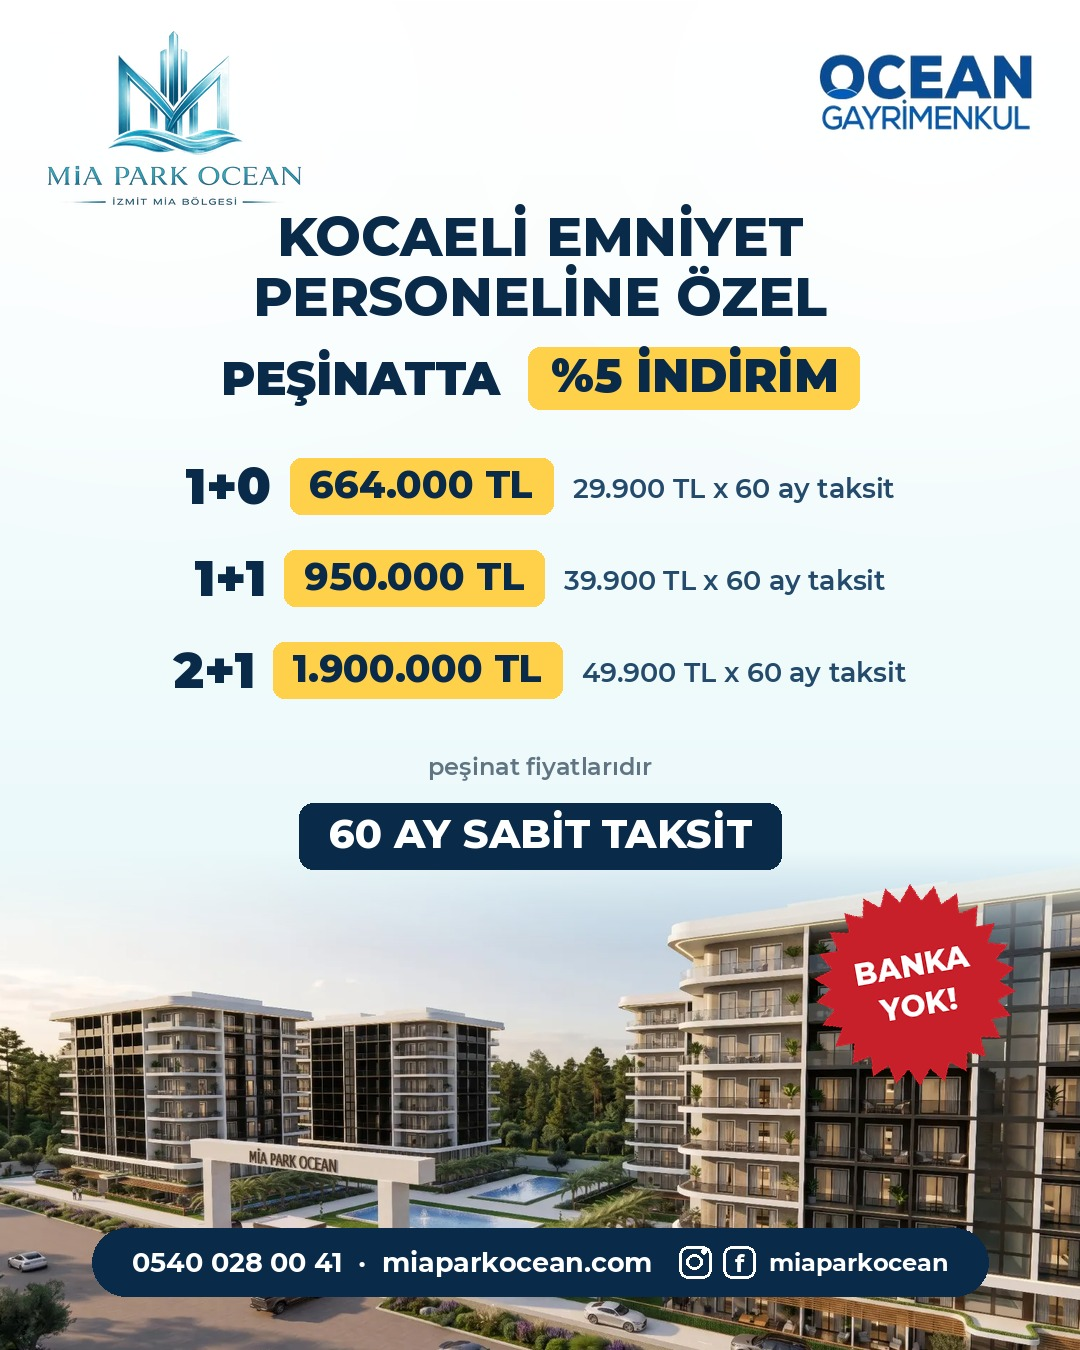
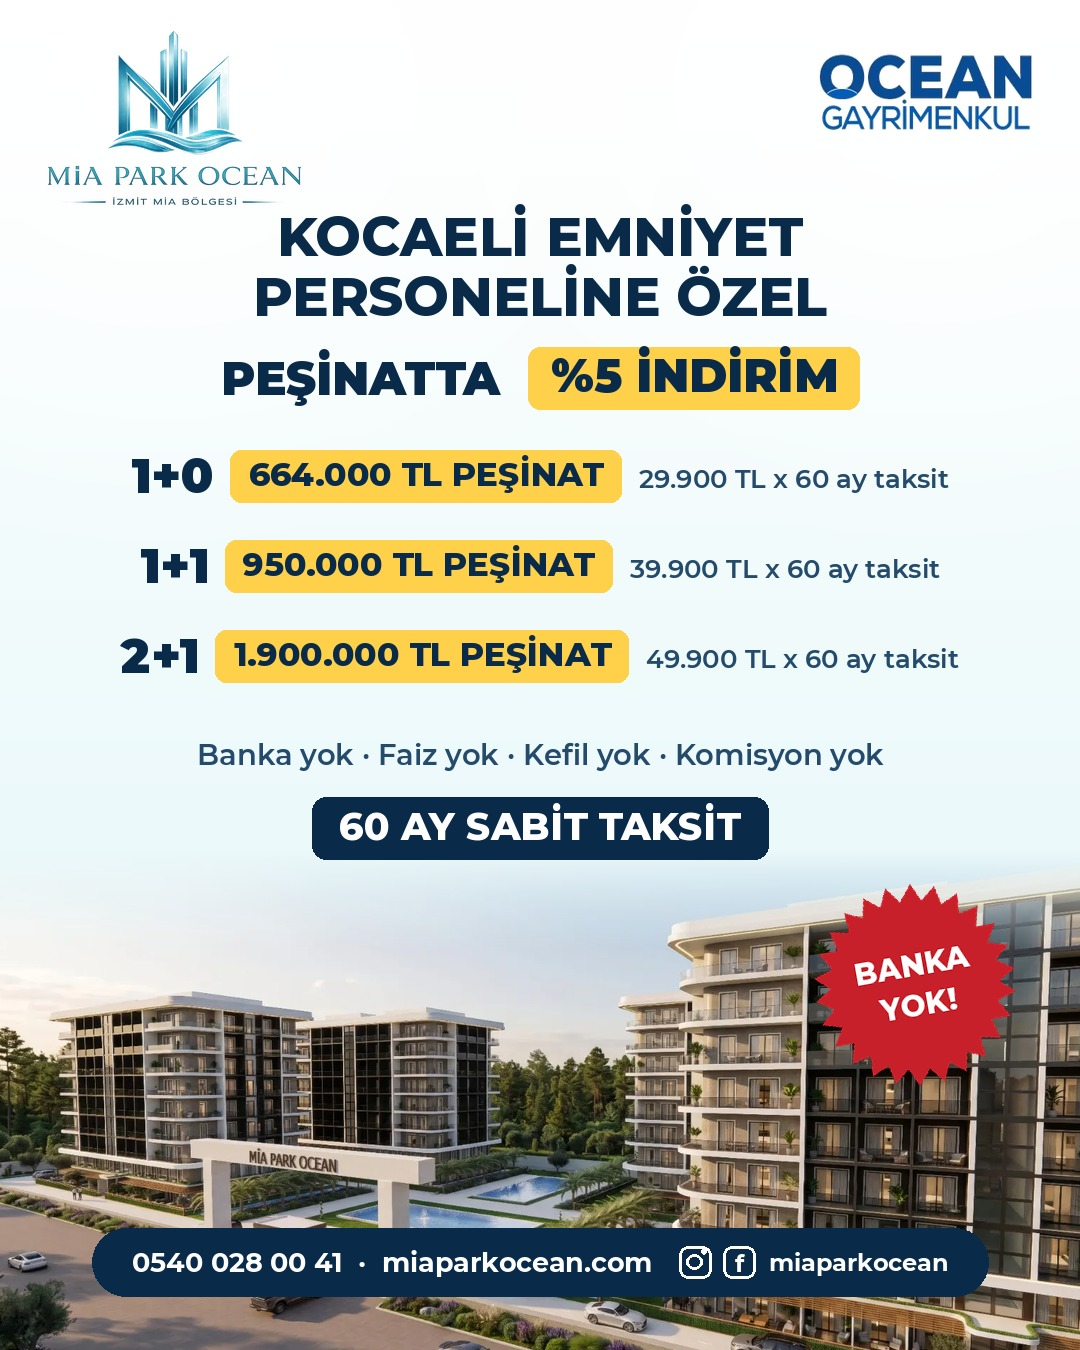
Emniyet kartı: sarı çiplerde PEŞİNAT ibaresi + kefil/komisyon yok satırı
Claude-Session: https://claude.ai/code/session_014vbWeo5uAXPs6zFw9SmWv2

Changed region(s): [[0.0917, 0.3111, 0.8861, 0.6533], [0.7639, 0.56, 0.7944, 0.5911]]

diff --git a/scripts/build-emniyet-post.py b/scripts/build-emniyet-post.py
@@ -75,29 +75,29 @@ def main():
     st.cip(dr, x + tw1 + 14 + tw2 / 2, 378, "%5 İNDİRİM", fb,
            dolgu=SARI, yazi=NAVY, pad_x=22, pad_y=8, r=12)
 
-    satirlar = [("1+0", "664.000 TL", "29.900 TL x 60 ay taksit"),
-                ("1+1", "950.000 TL", "39.900 TL x 60 ay taksit"),
-                ("2+1", "1.900.000 TL", "49.900 TL x 60 ay taksit")]
-    ft = mont("Black", 50)
-    fc = mont("ExtraBold", 38)
-    fk = mont("SemiBold", 27)
-    y = 486
+    satirlar = [("1+0", "664.000 TL PEŞİNAT", "29.900 TL x 60 ay taksit"),
+                ("1+1", "950.000 TL PEŞİNAT", "39.900 TL x 60 ay taksit"),
+                ("2+1", "1.900.000 TL PEŞİNAT", "49.900 TL x 60 ay taksit")]
+    ft = mont("Black", 48)
+    fc = mont("ExtraBold", 33)
+    fk = mont("SemiBold", 26)
+    y = 476
     for tip, pesin, taksit in satirlar:
         wt = dr.textlength(tip, font=ft)
-        wc = dr.textlength(pesin, font=fc) + 2 * 20
+        wc = dr.textlength(pesin, font=fc) + 2 * 18
         wk = dr.textlength(taksit, font=fk)
-        x = (W - wt - 18 - wc - 20 - wk) / 2
+        x = (W - wt - 16 - wc - 18 - wk) / 2
         dr.text((x, y), tip, font=ft, fill=NAVY, anchor="lm")
-        st.cip(dr, x + wt + 18 + wc / 2, y, pesin, fc, dolgu=SARI,
-               yazi=NAVY, pad_x=20, pad_y=9, r=11)
-        dr.text((x + wt + 18 + wc + 20, y + 2), taksit, font=fk,
+        st.cip(dr, x + wt + 16 + wc / 2, y, pesin, fc, dolgu=SARI,
+               yazi=NAVY, pad_x=18, pad_y=10, r=11)
+        dr.text((x + wt + 16 + wc + 18, y + 2), taksit, font=fk,
                 fill=(36, 74, 108), anchor="lm")
-        y += 92
-    dr.text((W / 2, y + 4), "peşinat fiyatlarıdır", font=mont("SemiBold", 24),
-            fill=(96, 116, 130), anchor="mm")
+        y += 90
+    dr.text((W / 2, y + 8), "Banka yok · Faiz yok · Kefil yok · Komisyon yok",
+            font=mont("SemiBold", 29), fill=(36, 74, 108), anchor="mm")
 
-    st.cip(dr, W / 2, y + 74, "60 AY SABİT TAKSİT", mont("ExtraBold", 40),
-           dolgu=NAVY, yazi=BEYAZ, pad_x=30, pad_y=13, r=14)
+    st.cip(dr, W / 2, y + 82, "60 AY SABİT TAKSİT", mont("ExtraBold", 38),
+           dolgu=NAVY, yazi=BEYAZ, pad_x=28, pad_y=12, r=14)
 
     yildiz(im, ["BANKA", "YOK!"], 915, 985, 100)
     dr = ImageDraw.Draw(im)

diff --git a/sosyal-medya/turkuaz-kampanya/postlar/POSTLAR.md b/sosyal-medya/turkuaz-kampanya/postlar/POSTLAR.md
@@ -41,7 +41,7 @@ kullanılabilir.
 > 🏠 1+1 → 950.000 TL peşinat · 39.900 TL x 60 ay sabit taksit
 > 🏠 2+1 → 1.900.000 TL peşinat · 49.900 TL x 60 ay sabit taksit
 >
-> Banka yok, faiz yok, kredi yok, ara ödeme yok.
+> Banka yok, faiz yok, kefil yok, komisyon yok.
 > İzmit MİA Bölgesi'nde yeni yaşam: MİA PARK OCEAN
 >
 > ☎ 0540 028 00 41 · 🌐 miaparkocean.com
